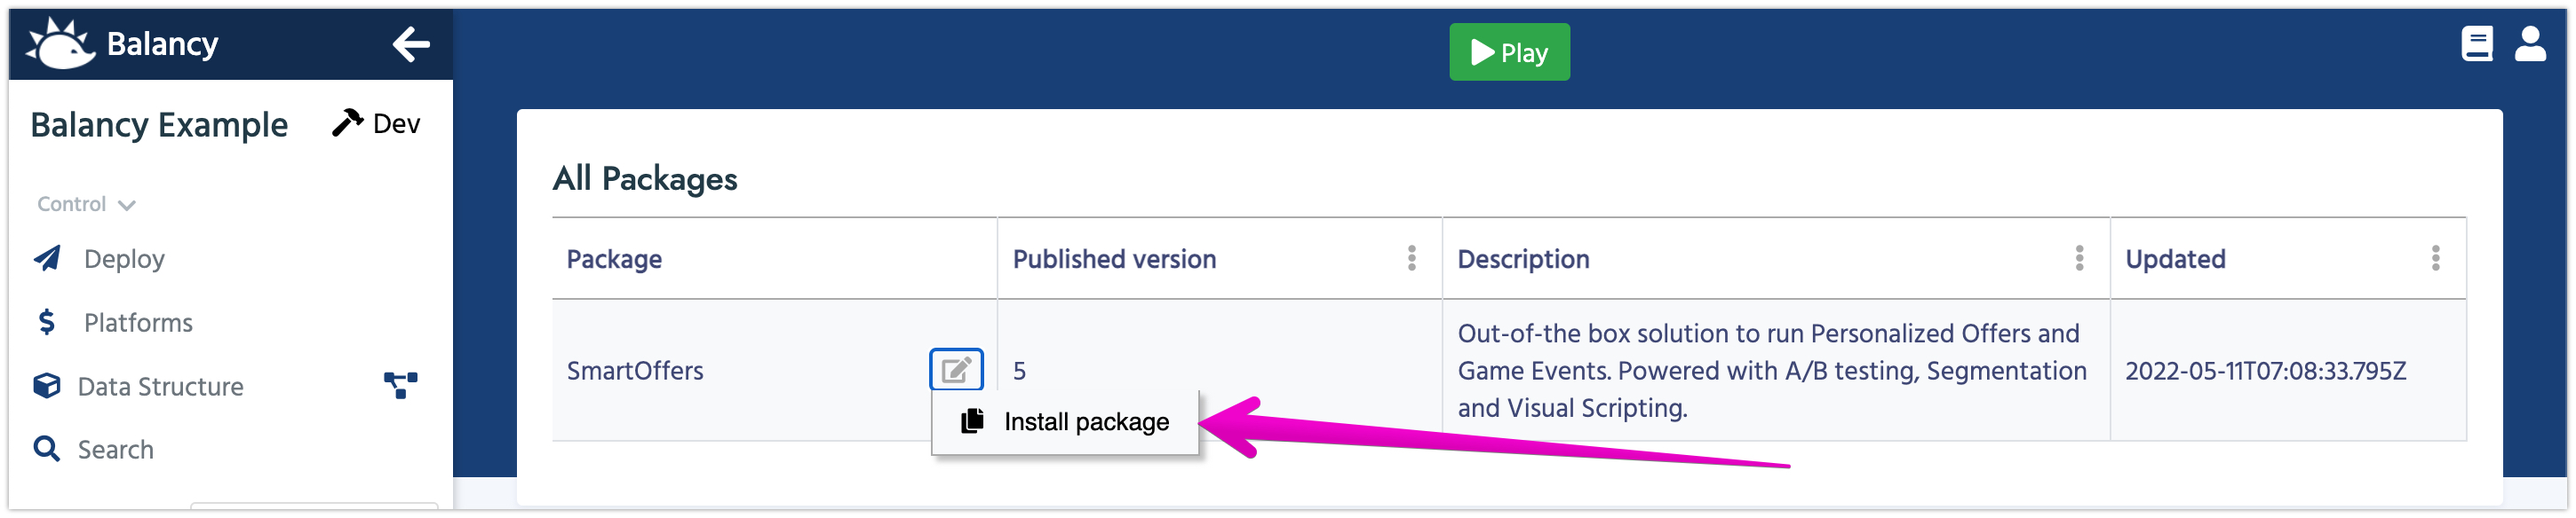
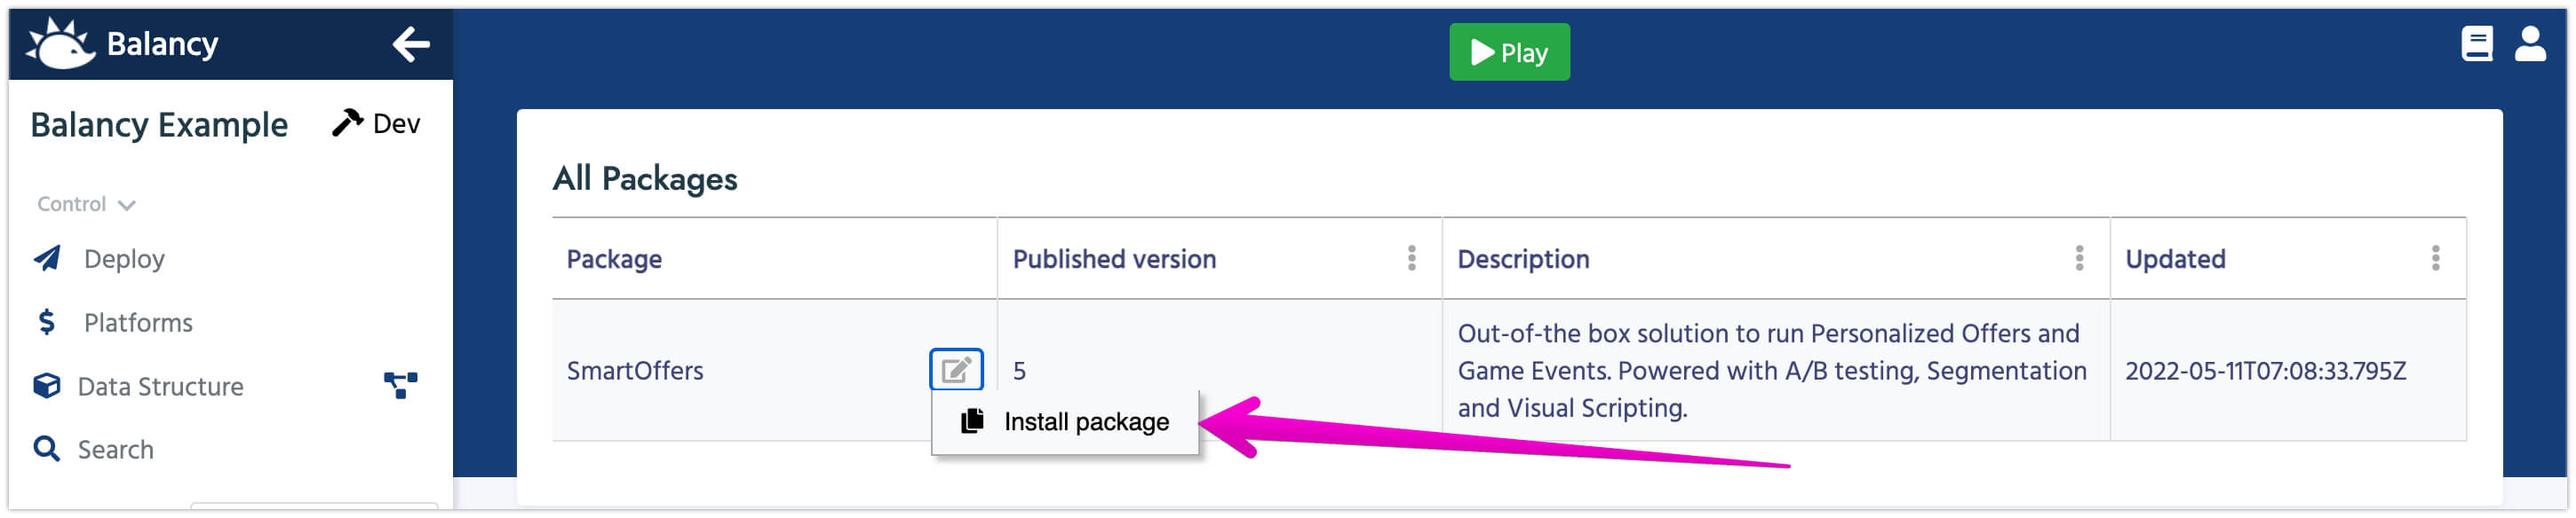
release noted and images optimization

diff --git a/eng/docs/release_notes.md b/eng/docs/release_notes.md
@@ -1,5 +1,11 @@
 # Release Notes
 
+### 3.2.0 - May 12, 2022
+* SmartOffers are now public
+* New Balancy Example added
+* A/B Testing
+* Segmentation
+
 ### 3.0.0 - April 18, 2022
 * New product added - Smart Offers and Game Events
 
